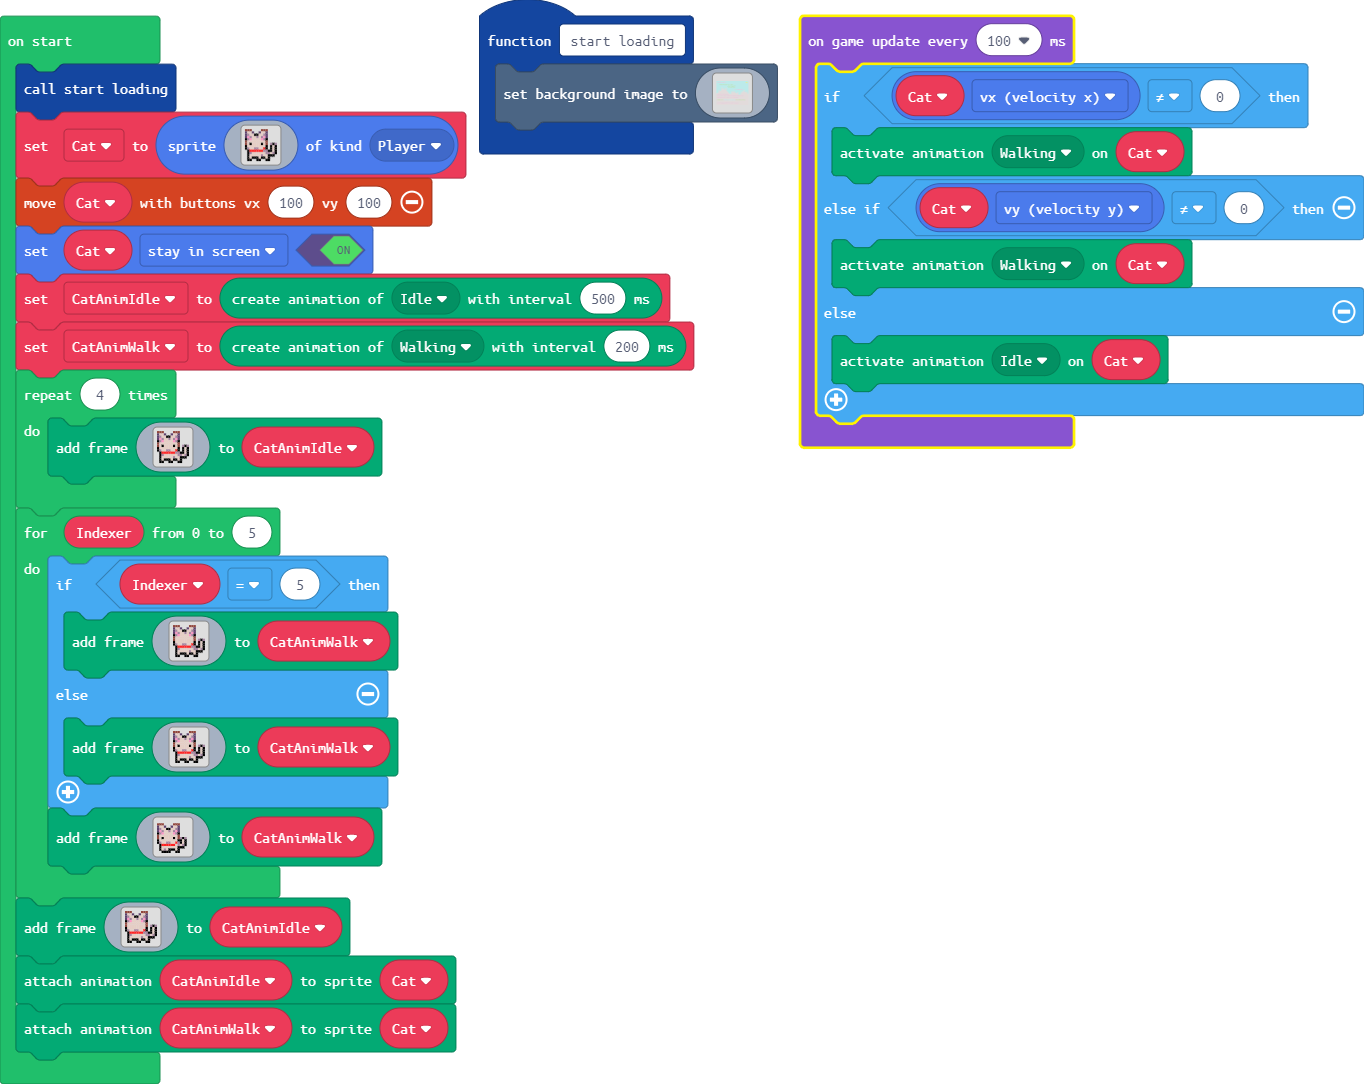
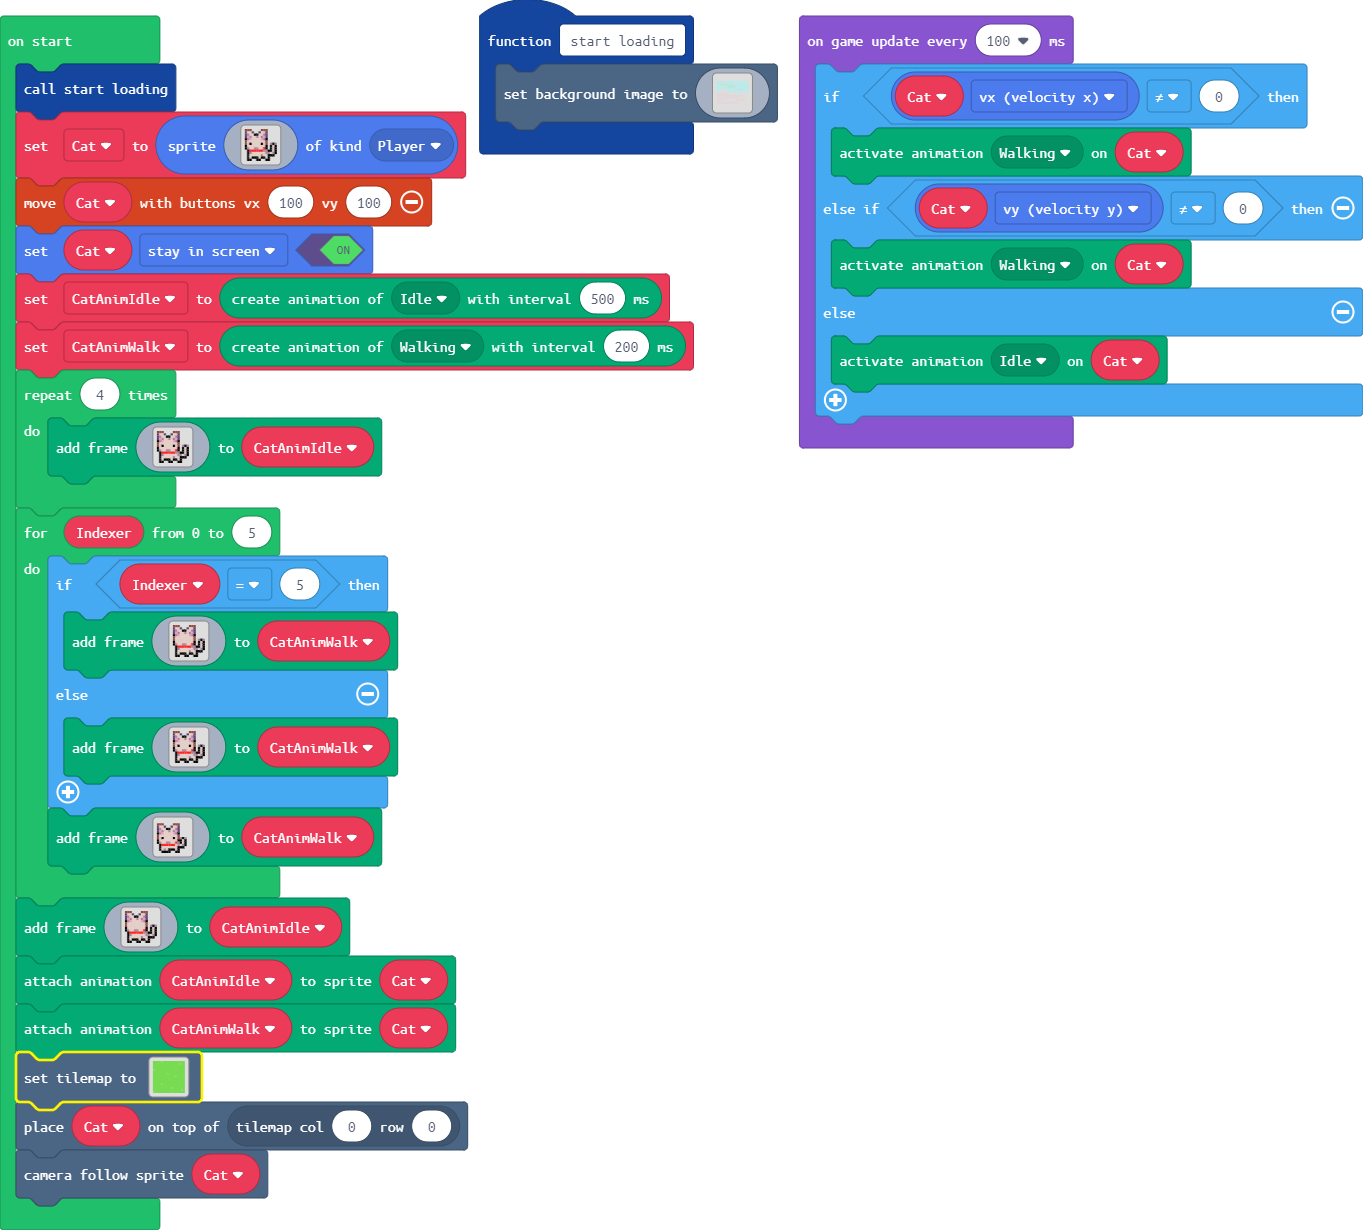
Update main.blocks, main.ts

diff --git a/main.ts b/main.ts
@@ -6,6 +6,46 @@ enum ActionKind {
 namespace SpriteKind {
     export const Help = SpriteKind.create()
 }
+namespace myTiles {
+    //% blockIdentity=images._tile
+    export const tile0 = img`
+. . . . . . . . . . . . . . . . 
+. . . . . . . . . . . . . . . . 
+. . . . . . . . . . . . . . . . 
+. . . . . . . . . . . . . . . . 
+. . . . . . . . . . . . . . . . 
+. . . . . . . . . . . . . . . . 
+. . . . . . . . . . . . . . . . 
+. . . . . . . . . . . . . . . . 
+. . . . . . . . . . . . . . . . 
+. . . . . . . . . . . . . . . . 
+. . . . . . . . . . . . . . . . 
+. . . . . . . . . . . . . . . . 
+. . . . . . . . . . . . . . . . 
+. . . . . . . . . . . . . . . . 
+. . . . . . . . . . . . . . . . 
+. . . . . . . . . . . . . . . . 
+`
+    //% blockIdentity=images._tile
+    export const tile1 = img`
+7 7 7 7 7 7 7 7 7 7 7 7 7 7 7 7 
+7 7 7 7 7 7 7 7 7 7 7 7 7 7 7 7 
+7 7 7 7 7 7 7 7 7 7 7 7 7 7 7 7 
+7 7 7 7 7 7 7 7 7 7 7 7 7 7 7 7 
+7 7 7 7 7 7 7 7 7 7 7 7 7 7 7 7 
+7 7 7 7 7 7 7 7 7 7 7 7 7 7 7 7 
+7 7 7 7 7 7 7 7 7 7 7 7 7 7 7 7 
+7 7 7 7 7 7 7 7 7 7 7 7 7 7 7 7 
+7 7 7 7 7 7 7 7 7 7 7 7 7 7 7 7 
+7 7 7 7 7 7 7 7 7 7 7 7 7 7 7 7 
+7 7 7 7 7 7 7 7 7 7 7 7 7 7 7 7 
+7 7 7 7 7 7 7 7 7 7 7 7 7 7 7 7 
+7 7 7 7 7 7 7 7 7 7 7 7 7 7 7 7 
+7 7 7 7 7 7 7 7 7 7 7 7 7 7 7 7 
+7 7 7 7 7 7 7 7 7 7 7 7 7 7 7 7 
+7 7 7 7 7 7 7 7 7 7 7 7 7 7 7 7 
+`
+}
 function start_loading () {
     scene.setBackgroundImage(img`
 9 9 9 9 9 9 9 9 9 9 9 9 9 9 9 9 9 9 9 9 9 9 9 9 9 9 9 9 9 9 9 9 9 9 9 9 9 9 9 9 9 9 9 9 9 9 9 9 9 9 9 9 9 9 9 9 9 9 9 9 9 9 9 9 9 9 9 9 9 9 9 9 9 9 9 9 9 9 9 9 9 9 9 9 9 9 9 9 9 9 9 9 9 9 9 9 9 9 9 9 9 9 9 9 9 9 9 9 9 9 9 9 9 9 9 9 9 9 9 9 9 9 9 9 9 9 9 9 9 9 9 9 9 9 9 9 9 9 9 9 9 9 9 9 9 9 9 9 9 9 9 9 9 9 9 9 9 9 9 9 
@@ -240,6 +280,31 @@ f b d d b b d d 2 f . f d f
 `)
 animation.attachAnimation(Cat, CatAnimIdle)
 animation.attachAnimation(Cat, CatAnimWalk)
+tiles.setTilemap(tiles.createTilemap(
+            hex`1000100001010101040101010101010101010103010101010101010301010101010401010101020101010101010101020101010101010101010101010101010101010101040101010101010101010103010101010101010101010201010101010101010101010101010101040101010101010101010101010101010101010104010101020101020101010101010101010101010101010101010101010201010101010101010101010101010101010101010301010101010104010101010101010101010101010101010103010101010101010101010201010101010101040101010102010101010101010101010101010101040104010101010101010102010101010101`,
+            img`
+. . . . . . . . . . . . . . . . 
+. . . . . . . . . . . . . . . . 
+. . . . . . . . . . . . . . . . 
+. . . . . . . . . . . . . . . . 
+. . . . . . . . . . . . . . . . 
+. . . . . . . . . . . . . . . . 
+. . . . . . . . . . . . . . . . 
+. . . . . . . . . . . . . . . . 
+. . . . . . . . . . . . . . . . 
+. . . . . . . . . . . . . . . . 
+. . . . . . . . . . . . . . . . 
+. . . . . . . . . . . . . . . . 
+. . . . . . . . . . . . . . . . 
+. . . . . . . . . . . . . . . . 
+. . . . . . . . . . . . . . . . 
+. . . . . . . . . . . . . . . . 
+`,
+            [myTiles.tile0,myTiles.tile1,sprites.castle.tileGrass1,sprites.castle.tileGrass3,sprites.castle.tileGrass2],
+            TileScale.Sixteen
+        ))
+tiles.placeOnTile(Cat, tiles.getTileLocation(0, 0))
+scene.cameraFollowSprite(Cat)
 game.onUpdateInterval(100, function () {
     if (Cat.vx != 0) {
         animation.setAction(Cat, ActionKind.Walking)
